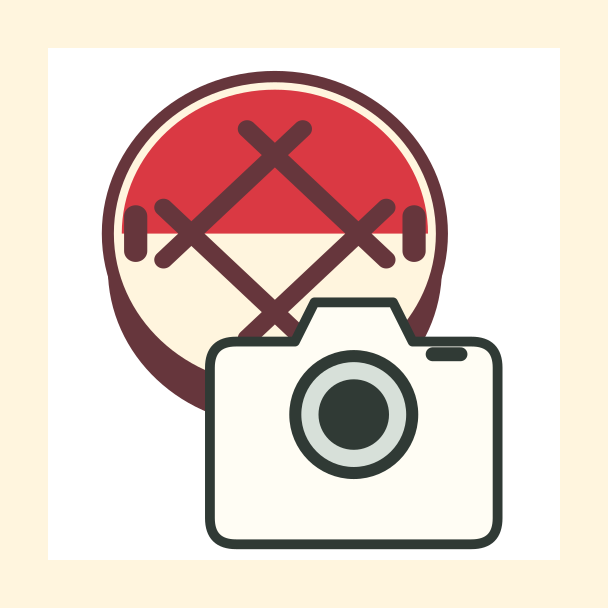
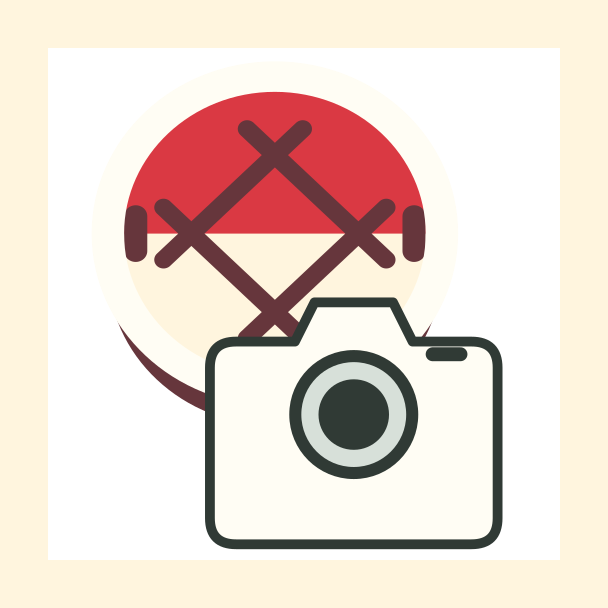
Thicken manhole rim in white for clearer silhouette

Changed region(s): [[0.1562, 0.0938, 0.75, 0.6562]]

diff --git a/docs/shared-brand-icon.md b/docs/shared-brand-icon.md
@@ -2,6 +2,8 @@
 
 2026-10-11 採用: 「立てたふた＋白いカメラ」。赤白の格子入りマンホールを背面に、大きな白いカメラを手前に重ねる。
 
+外枠は太い白（`#FFFDF4`）。赤白の上下分割による公式との誤認について検討中のため、PRはDraft。配色の最終判断までマージしない。
+
 - `public/brand-icon.svg` をヘッダーとfaviconで共用する。
 - 図鑑の `apps/web/assets/brand-icon.svg` と同一のSVGを使う。変更時は両サイトを更新する。
 - faviconは16/32/48pxのICO、48/96pxのPNG、SVG。ホーム画面用は180px、manifest用は余白をつけた192/512px。
